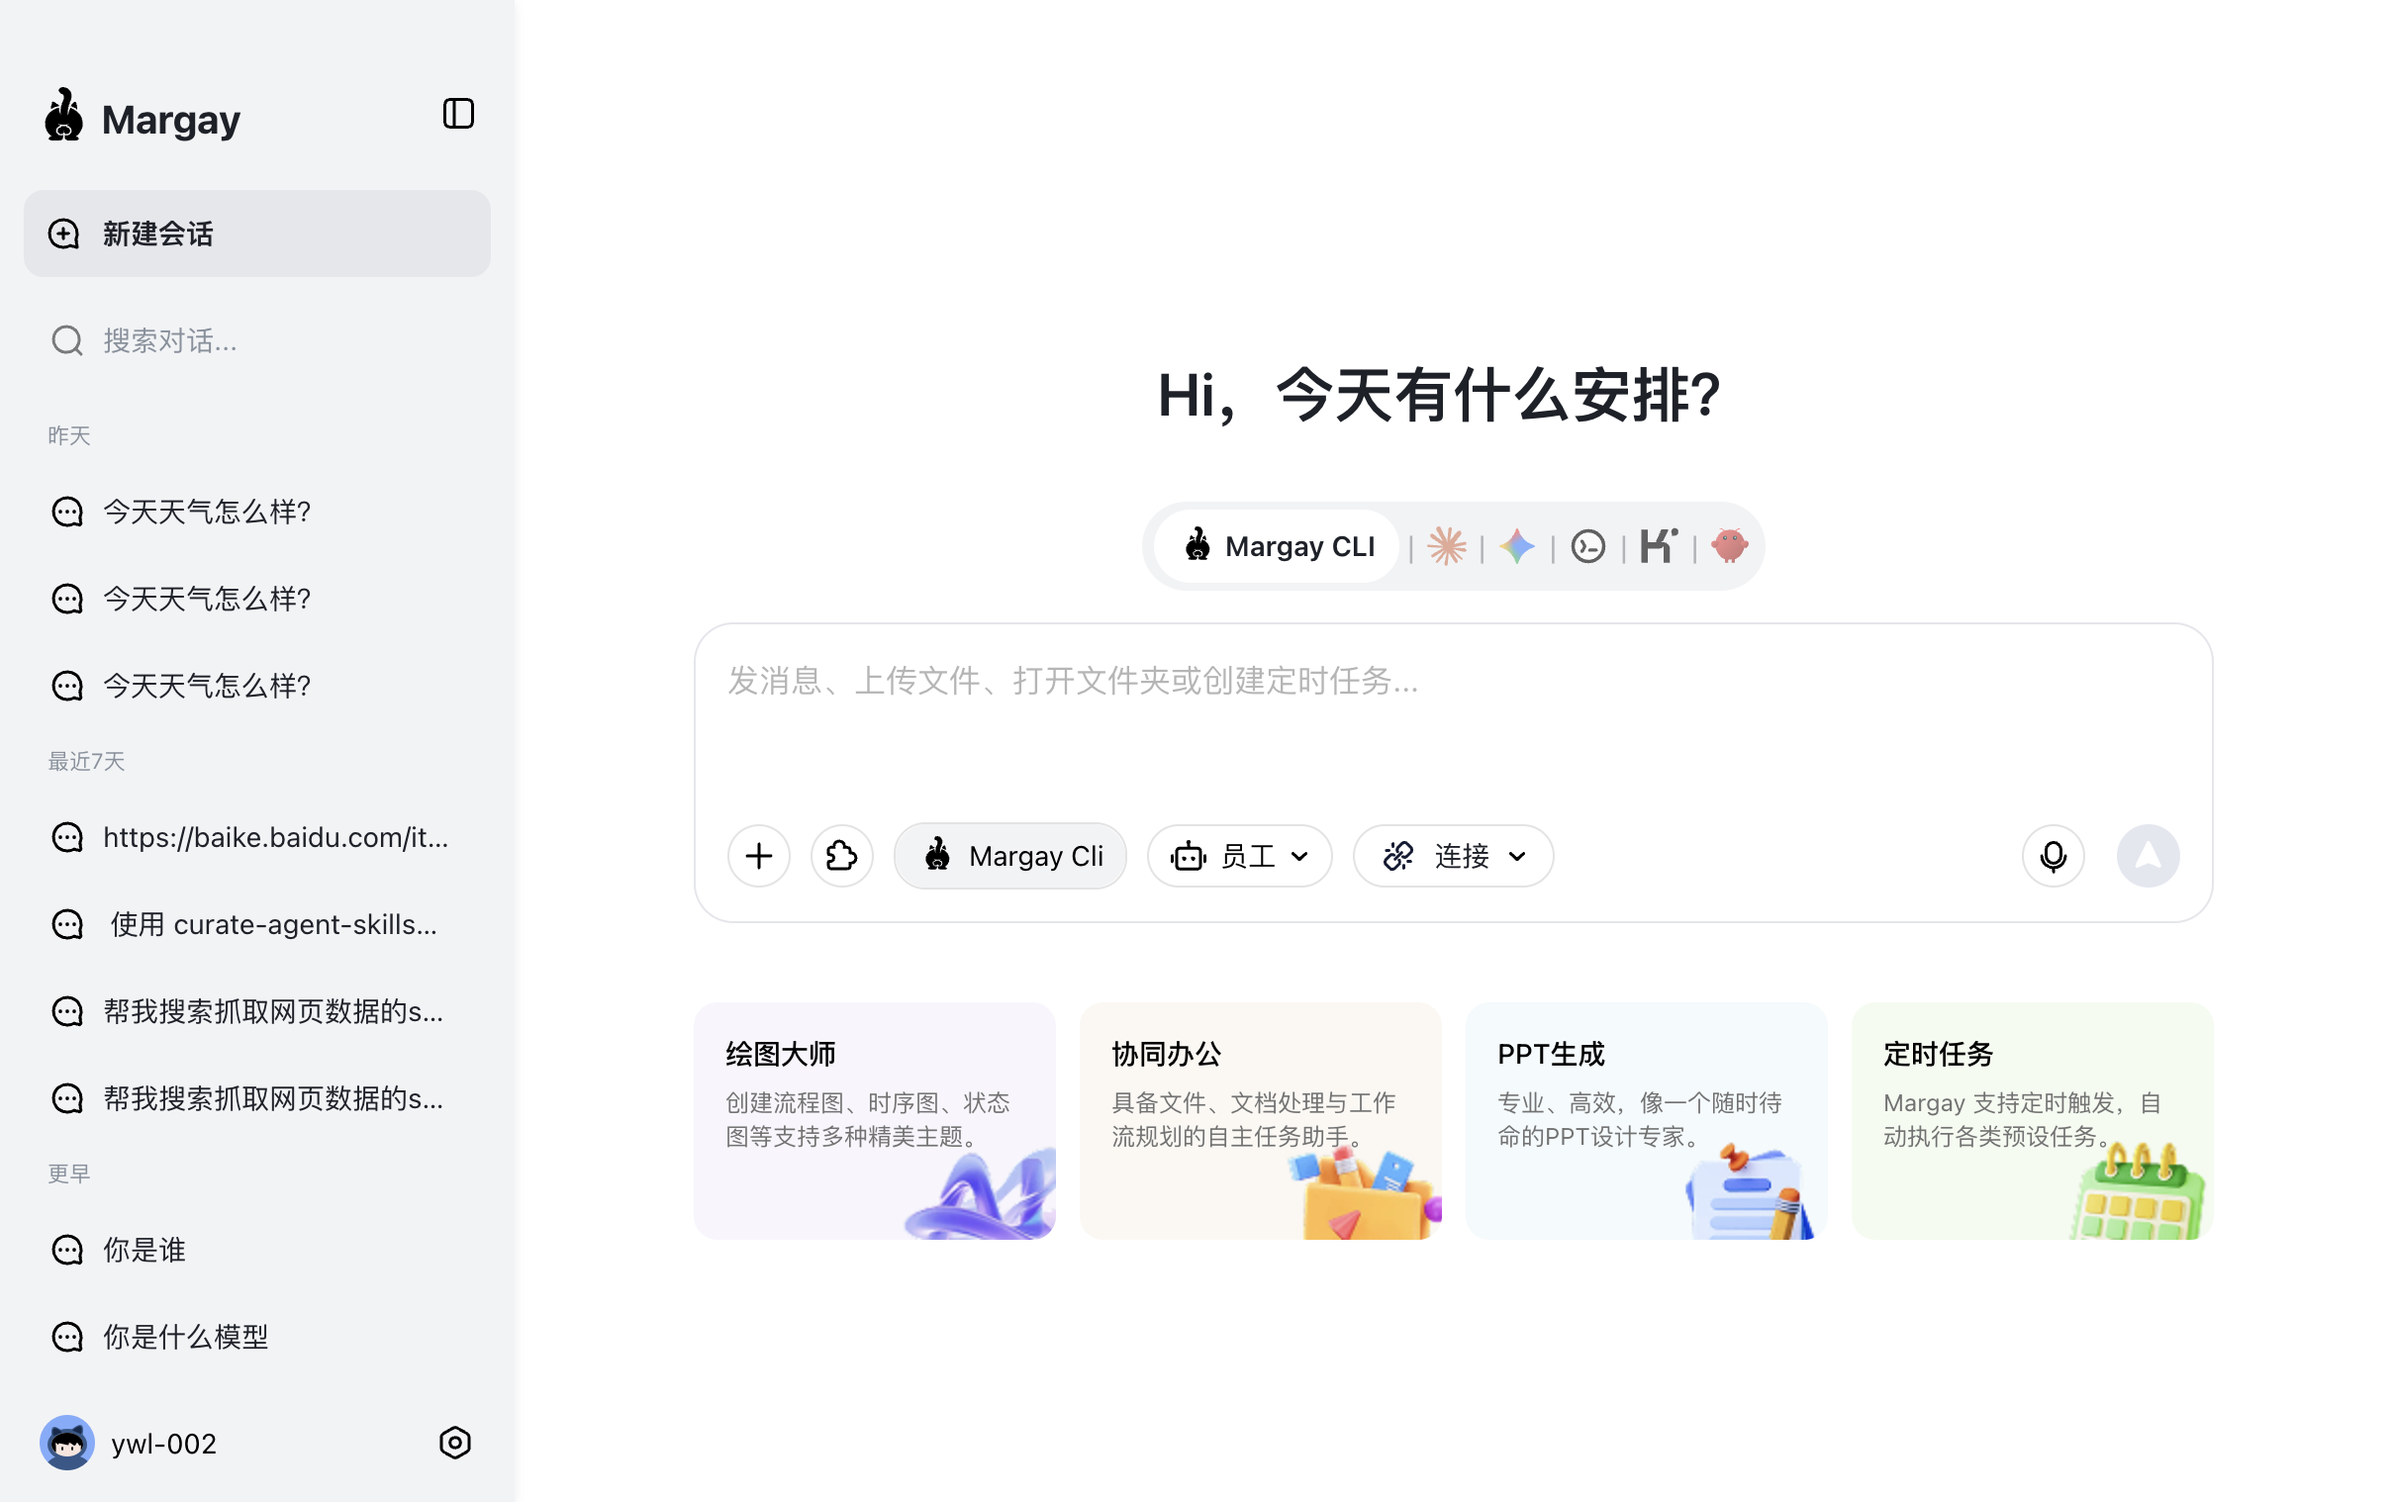
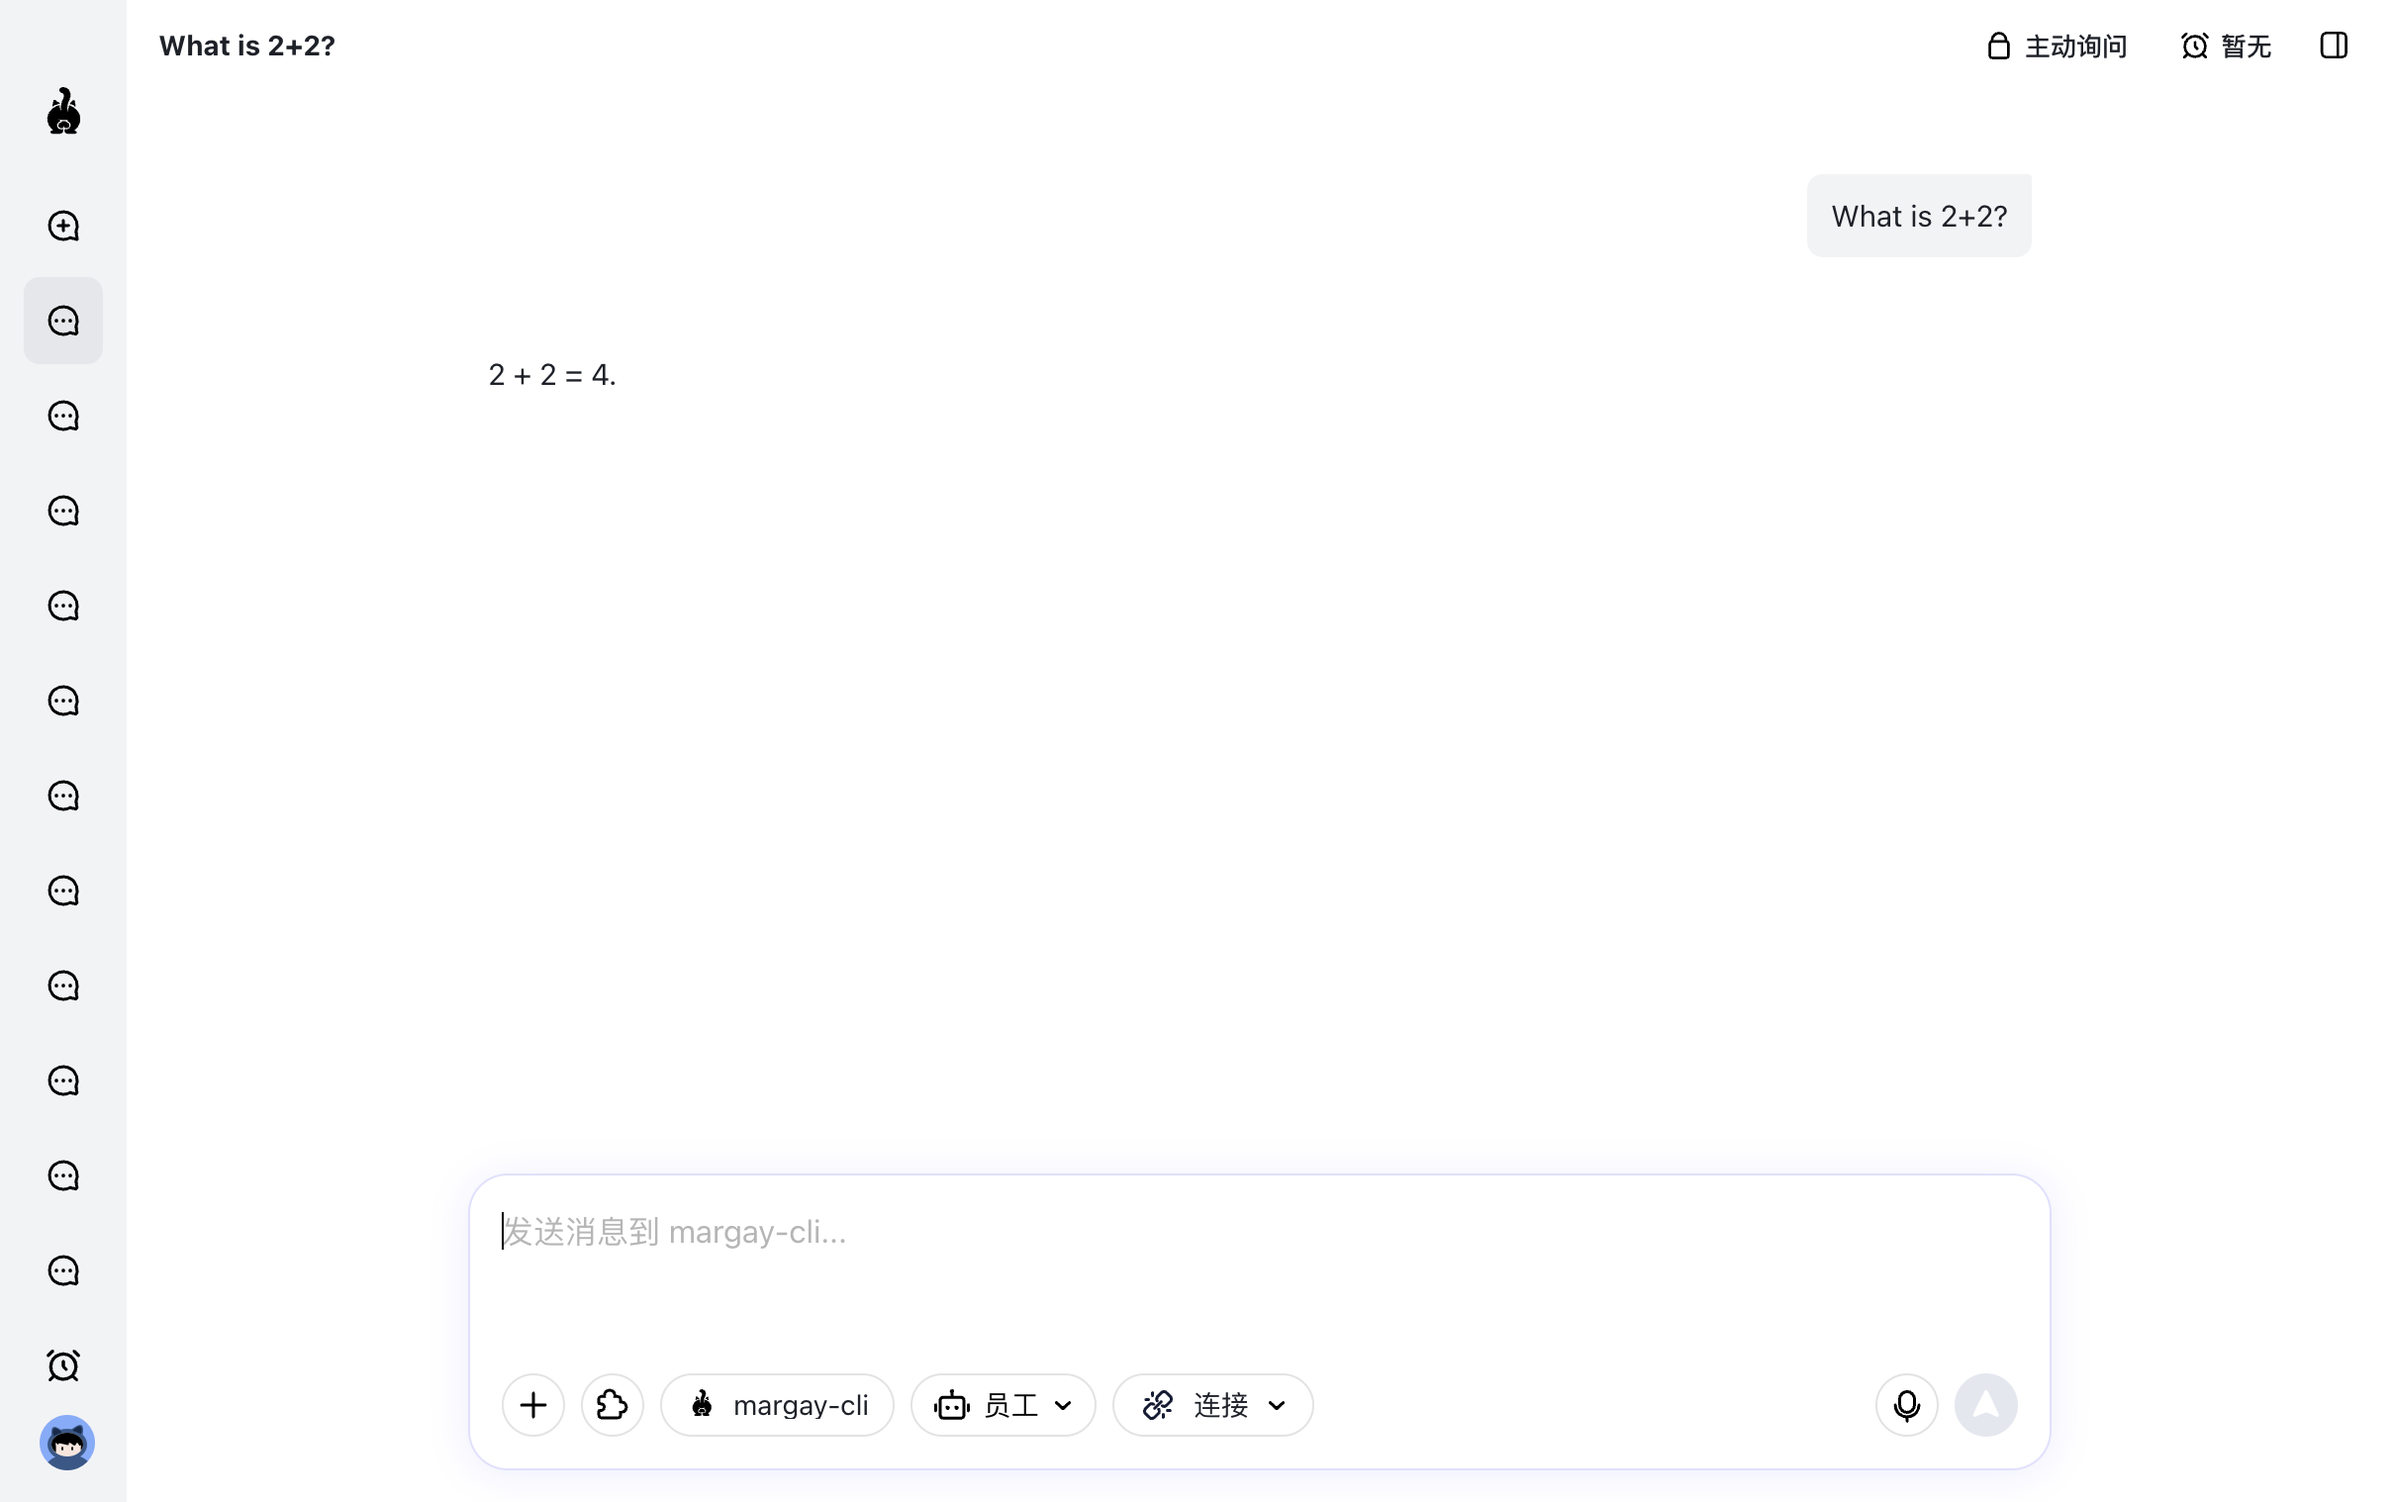
R91: chat content on homepage, real Q&A referenced

diff --git a/ja/index.md b/ja/index.md
@@ -34,8 +34,12 @@ features:
     details: バージョンとシステム情報を表示。
 ---
 
-## Margayとは？
 
-Margayは複数のAIアシスタントを一箇所にまとめたデスクトップアプリです。
+## Try chatting with AI
 
-![Margayメイン画面](/screenshots/overview-main.png)
+Type a question in the message box at the bottom and press Enter. The AI replies right away.
+
+![Chat with AI](/screenshots/chat-streaming.png)
+
+For example, ask "What is 2+2?" and Margay will answer "2 + 2 = 4."
+

diff --git a/index.md b/index.md
@@ -34,8 +34,12 @@ features:
     details: View version and system information.
 ---
 
-## What is Margay?
 
-Margay is a desktop app that brings multiple AI assistants together in one place.
+## Try chatting with AI
 
-![Margay main window](/screenshots/overview-main.png)
+Type a question in the message box at the bottom and press Enter. The AI replies right away.
+
+![Chat with AI](/screenshots/chat-streaming.png)
+
+For example, ask "What is 2+2?" and Margay will answer "2 + 2 = 4."
+

diff --git a/zh-CN/index.md b/zh-CN/index.md
@@ -34,8 +34,12 @@ features:
     details: 查看版本和系统信息。
 ---
 
-## 什么是 Margay？
 
-Margay 是一款将多种 AI 助手整合到一个地方的桌面应用。
+## Try chatting with AI
 
-![Margay 主窗口](/screenshots/overview-main.png)
+Type a question in the message box at the bottom and press Enter. The AI replies right away.
+
+![Chat with AI](/screenshots/chat-streaming.png)
+
+For example, ask "What is 2+2?" and Margay will answer "2 + 2 = 4."
+

diff --git a/ja/skills.md b/ja/skills.md
@@ -8,4 +8,4 @@ Margayの機能を拡張する事前構築ツールです。
 2. 設定メニューから **Skills** を選択
 3. 利用可能なスキルカタログを閲覧
 
-![スキルカタログ](/screenshots/chat-streaming.png)
+![スキルカタログ](/screenshots/skills-panel.png)

diff --git a/skills.md b/skills.md
@@ -8,5 +8,5 @@ Skills are pre-built tools that extend Margay's capabilities.
 2. Select **Skills** from the settings menu
 3. Browse the available skills catalog
 
-![Skills catalog](/screenshots/chat-streaming.png)
+![Skills catalog](/screenshots/skills-panel.png)
 

diff --git a/zh-CN/skills.md b/zh-CN/skills.md
@@ -8,4 +8,4 @@
 2. 从设置菜单中选择 **Skills**
 3. 浏览可用的技能目录
 
-![技能目录](/screenshots/chat-streaming.png)
+![技能目录](/screenshots/skills-panel.png)
